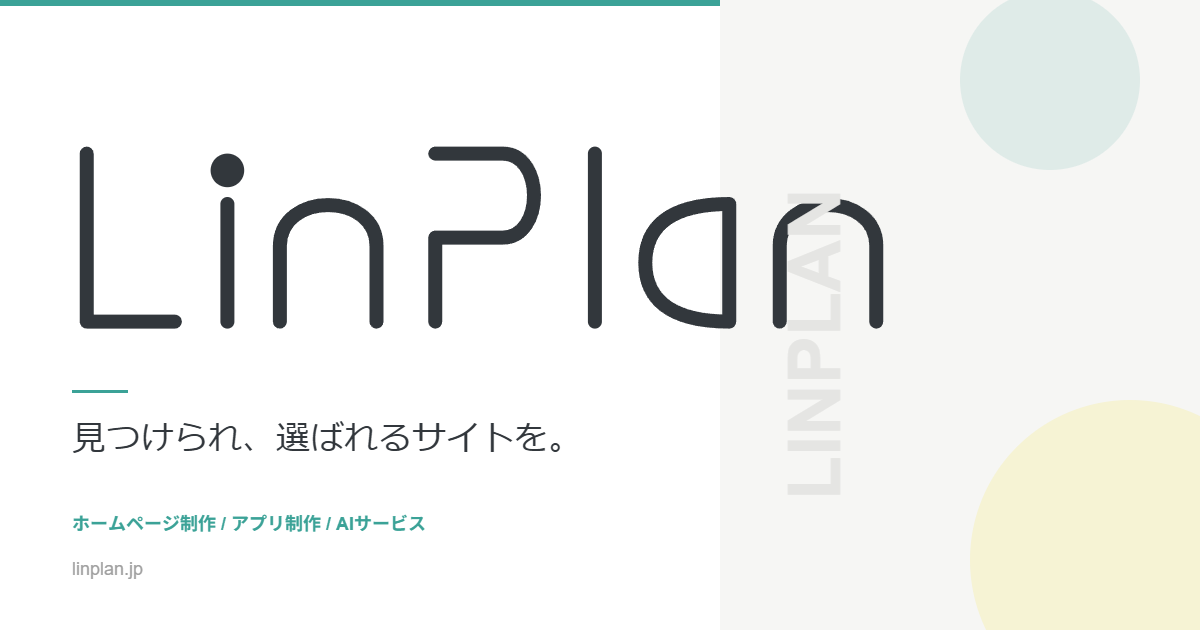
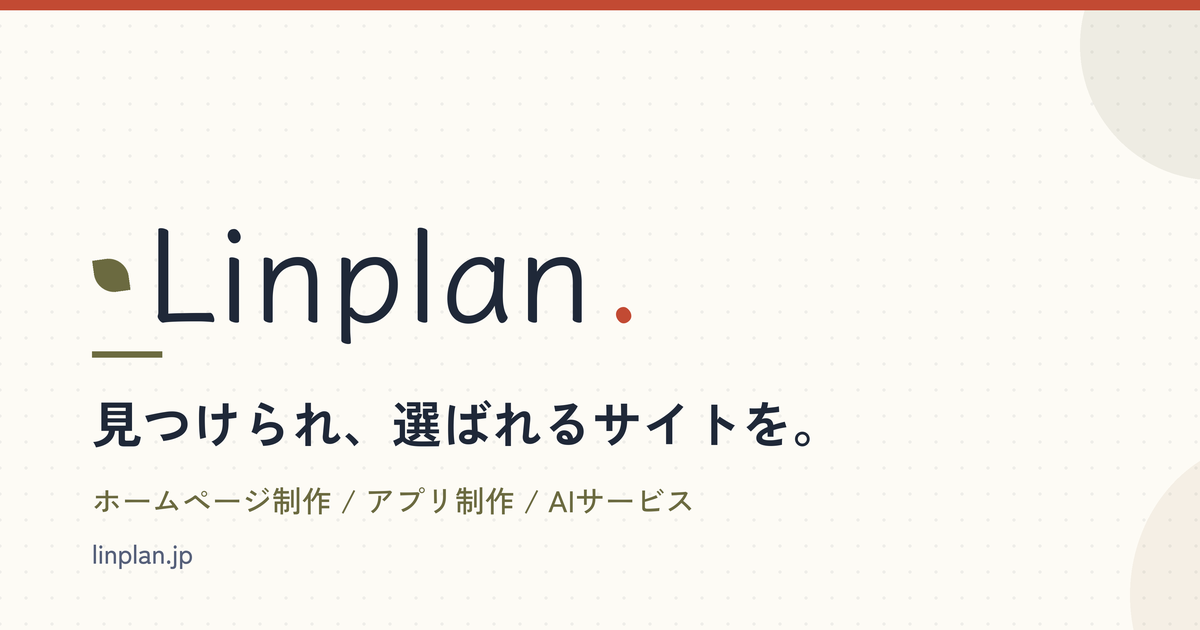
地域SEO第2弾: カニバリ解消・船橋文脈注入・NAP統一・画像最適化
- index.htmlをトップLPに一本化、h2/OGPに船橋文脈を注入し対応エリア導線を追加
- area/funabashi.htmlを対面サポート・対応エリア案内に役割変更してキーワード競合を解消
- about.htmlのNAP表記を「千葉県船橋市」に統一
- tokushoho.htmlの電話番号を開示請求方式に変更（非公開方針に整合）
- OGP画像を現行ブランド（Linplan表記・テラコッタ配色）で作り直し
- 作品見本画像3点を再圧縮（計約157KB削減）

diff --git a/area/funabashi.html b/area/funabashi.html
@@ -10,20 +10,20 @@ j=d.createElement(s),dl=l!='dataLayer'?'&l='+l:'';j.async=true;j.src=
 'https://www.googletagmanager.com/gtm.js?id='+i+dl;f.parentNode.insertBefore(j,f);
 })(window,document,'script','dataLayer','GTM-5DVGF39S');</script>
 <!-- End Google Tag Manager -->
-<title>船橋市のホームページ制作｜月額9,900円〜・直接お伺いします【Linplan】</title>
+<title>船橋市内の対面サポート・対応エリア｜直接お伺いします【Linplan】</title>
 <link rel="canonical" href="https://linplan.jp/area/funabashi.html">
 <meta property="og:type" content="website">
 <meta property="og:site_name" content="Linplan">
 <meta property="og:locale" content="ja_JP">
-<meta property="og:title" content="船橋市のホームページ制作｜月額9,900円〜・直接お伺いします【Linplan】">
-<meta property="og:description" content="千葉県船橋市でホームページ制作なら地元のLinplan。月額9,900円〜、初期費用0円。船橋市内なら直接お店にお伺いして、対面でご相談・サポートします。">
+<meta property="og:title" content="船橋市内の対面サポート・対応エリア｜直接お伺いします【Linplan】">
+<meta property="og:description" content="Linplanの対面サポート対応エリアのご案内。船橋市内・習志野市・市川市・鎌ケ谷市・八千代市は直接お店にお伺いして、打ち合わせから公開後のサポートまで対面で対応します。">
 <meta property="og:url" content="https://linplan.jp/area/funabashi.html">
 <meta property="og:image" content="https://linplan.jp/images/ogp.png">
 <meta name="twitter:card" content="summary_large_image">
-<meta name="twitter:title" content="船橋市のホームページ制作｜月額9,900円〜・直接お伺いします【Linplan】">
-<meta name="twitter:description" content="千葉県船橋市でホームページ制作なら地元のLinplan。月額9,900円〜、初期費用0円。船橋市内なら直接お店にお伺いして、対面でご相談・サポートします。">
+<meta name="twitter:title" content="船橋市内の対面サポート・対応エリア｜直接お伺いします【Linplan】">
+<meta name="twitter:description" content="Linplanの対面サポート対応エリアのご案内。船橋市内・習志野市・市川市・鎌ケ谷市・八千代市は直接お店にお伺いして、打ち合わせから公開後のサポートまで対面で対応します。">
 <meta name="twitter:image" content="https://linplan.jp/images/ogp.png">
-<meta name="description" content="千葉県船橋市でホームページ制作なら地元のLinplan。月額9,900円〜、初期費用0円。船橋市内なら直接お店にお伺いして、対面でご相談・サポートします。">
+<meta name="description" content="Linplanの対面サポート対応エリアのご案内。船橋市内・習志野市・市川市・鎌ケ谷市・八千代市は直接お店にお伺いして、打ち合わせから公開後のサポートまで対面で対応します。">
 <script type="application/ld+json">
 {
   "@context": "https://schema.org",
@@ -61,7 +61,7 @@ j=d.createElement(s),dl=l!='dataLayer'?'&l='+l:'';j.async=true;j.src=
       "@type": "BreadcrumbList",
       "itemListElement": [
         { "@type": "ListItem", "position": 1, "name": "ホーム", "item": "https://linplan.jp/" },
-        { "@type": "ListItem", "position": 2, "name": "船橋市のホームページ制作", "item": "https://linplan.jp/area/funabashi.html" }
+        { "@type": "ListItem", "position": 2, "name": "船橋市内の対面サポート・対応エリア", "item": "https://linplan.jp/area/funabashi.html" }
       ]
     }
   ]
@@ -148,8 +148,8 @@ height="0" width="0" style="display:none;visibility:hidden"></iframe></noscript>
   <svg class="blob float-a" width="200" height="200" viewBox="-90 -90 180 180" style="top:70px;left:8%;opacity:.7" aria-hidden="true"><path d="M44.6,-55.6C56.4,-46.3,63.5,-31.1,66.8,-15.2C70.1,0.7,69.6,17.3,62.4,30.6C55.2,43.9,41.3,53.9,26,59.8C10.7,65.7,-6,67.5,-21.9,63.3C-37.8,59.1,-52.9,48.9,-61.4,34.6C-69.9,20.3,-71.8,1.9,-67.5,-14.4C-63.2,-30.7,-52.7,-44.9,-39.3,-54C-25.9,-63.1,-13,-67.1,1.4,-68.8C15.7,-70.5,32.8,-64.9,44.6,-55.6Z" fill="#E6E3CF"/></svg>
   <div class="container">
     <span class="eyebrow">Funabashi</span>
-    <h1>船橋市の<br class="dt">ホームページ制作</h1>
-    <p>船橋を拠点に、お店・中小企業のホームページをひとりでお作りしています。<br>打ち合わせも、公開してからのサポートも、直接お伺いできます。</p>
+    <h1>船橋市内の<br class="dt">対面サポート・対応エリア</h1>
+    <p>打ち合わせも、公開してからのサポートも、直接お伺いできます。<br>制作内容や料金については<a href="../index.html">船橋のホームページ制作（トップページ）</a>をご覧ください。</p>
   </div>
 </header>
 

diff --git a/index.html b/index.html
@@ -15,13 +15,13 @@ j=d.createElement(s),dl=l!='dataLayer'?'&l='+l:'';j.async=true;j.src=
 <meta property="og:type" content="website">
 <meta property="og:site_name" content="Linplan">
 <meta property="og:locale" content="ja_JP">
-<meta property="og:title" content="Linplan ｜ Web・アプリ・AI、ひとりで一気通貫。">
-<meta property="og:description" content="中小企業・店舗のための、AIにも選ばれるサイトを。Linplanは企画から運用までひとりで一気通貫。AEO/GEO標準対応で、Web・アプリ・AI業務支援をワンストップでご提供します。">
+<meta property="og:title" content="船橋のホームページ制作｜月額9,900円〜・対面対応【Linplan】">
+<meta property="og:description" content="千葉県船橋市のホームページ制作。初期費用0円・月額9,900円〜。船橋市内・近隣は直接お伺いして対面でサポート。AEO/GEO(AI検索最適化)標準対応。">
 <meta property="og:url" content="https://linplan.jp/">
 <meta property="og:image" content="https://linplan.jp/images/ogp.png">
 <meta name="twitter:card" content="summary_large_image">
-<meta name="twitter:title" content="Linplan ｜ Web・アプリ・AI、ひとりで一気通貫。">
-<meta name="twitter:description" content="中小企業・店舗のための、AIにも選ばれるサイトを。Linplanは企画から運用までひとりで一気通貫。AEO/GEO標準対応で、Web・アプリ・AI業務支援をワンストップでご提供します。">
+<meta name="twitter:title" content="船橋のホームページ制作｜月額9,900円〜・対面対応【Linplan】">
+<meta name="twitter:description" content="千葉県船橋市のホームページ制作。初期費用0円・月額9,900円〜。船橋市内・近隣は直接お伺いして対面でサポート。AEO/GEO(AI検索最適化)標準対応。">
 <meta name="twitter:image" content="https://linplan.jp/images/ogp.png">
 <meta name="description" content="中小企業・店舗のための、AIにも選ばれるサイトを。Linplanは企画から運用までひとりで一気通貫。AEO/GEO標準対応で、Web・アプリ・AI業務支援をワンストップでご提供します。">
 <script type="application/ld+json">
@@ -379,7 +379,7 @@ height="0" width="0" style="display:none;visibility:hidden"></iframe></noscript>
   <div class="container">
     <div class="section__head reveal">
       <span class="eyebrow">Service Map</span>
-      <h2>ホームページを、事業の武器に。</h2>
+      <h2>船橋の中小企業・お店のホームページを、事業の武器に。</h2>
       <p class="section__desc" style="margin-top:10px">ホームページを作ったはいいものの、「あるだけ」になっていませんか？<br>私は制作を通じて、いっしょに事業の成長のお手伝いをしていきます。</p>
     </div>
 
@@ -722,7 +722,7 @@ height="0" width="0" style="display:none;visibility:hidden"></iframe></noscript>
   <div class="container">
     <div class="section__head reveal">
       <span class="eyebrow">Works</span>
-      <h2>これまでの成果物</h2>
+      <h2>船橋のホームページ制作 実績・見本サイト</h2>
       <p class="section__desc">自社プロダクトと制作実績をご紹介します。</p>
     </div>
 
@@ -843,6 +843,18 @@ height="0" width="0" style="display:none;visibility:hidden"></iframe></noscript>
       </a>
     </div>
     <div style="text-align:center;margin-top:40px" class="reveal"><a href="blog/" class="btn btn--ghost hand">相談室の記事をすべて見る<svg width="14" height="14" viewBox="0 0 24 24" fill="none" stroke="currentColor" stroke-width="2.4" stroke-linecap="round" stroke-linejoin="round"><path d="M5 12h14"/><path d="M12 5l7 7-7 7"/></svg></a></div>
+  </div>
+</section>
+
+<!-- ===== AREA ===== -->
+<section class="section section--white">
+  <div class="container">
+    <div class="section__head reveal">
+      <span class="eyebrow">Area</span>
+      <h2>船橋市内・近隣エリアは直接お伺いします</h2>
+    </div>
+    <p class="section__desc reveal">船橋駅・西船橋・津田沼・下総中山エリアをはじめ、船橋市内ならどこでも直接お伺いします。習志野市・市川市・鎌ケ谷市・八千代市など近隣の方もお気軽に。「ホームページを作りたいけれど、何から始めればいいか分からない」という段階からのご相談が、実はいちばん多いです。</p>
+    <p class="section__desc reveal">対面での打ち合わせ・サポートの詳細は<a href="area/funabashi.html">船橋市内の対面サポート・対応エリア</a>をご覧ください。</p>
   </div>
 </section>
 

diff --git a/tokushoho.html b/tokushoho.html
@@ -94,7 +94,7 @@ height="0" width="0" style="display:none;visibility:hidden"></iframe></noscript>
           <tr><th style="text-align:left;padding:14px;border-bottom:1px solid var(--line);width:32%;vertical-align:top;background:var(--paper)">販売事業者</th><td style="padding:14px;border-bottom:1px solid var(--line)">Linplan（リンプラン）</td></tr>
           <tr><th style="text-align:left;padding:14px;border-bottom:1px solid var(--line);vertical-align:top;background:var(--paper)">運営責任者</th><td style="padding:14px;border-bottom:1px solid var(--line)">坪山　ちひろ</td></tr>
           <tr><th style="text-align:left;padding:14px;border-bottom:1px solid var(--line);vertical-align:top;background:var(--paper)">所在地</th><td style="padding:14px;border-bottom:1px solid var(--line)">千葉県船橋市<br><span style="color:var(--ink-soft);font-size:.86rem">※詳細な住所は、ご請求をいただいた場合に遅滞なく開示いたします。お問い合わせフォームよりご連絡ください。</span></td></tr>
-          <tr><th style="text-align:left;padding:14px;border-bottom:1px solid var(--line);vertical-align:top;background:var(--paper)">電話番号</th><td style="padding:14px;border-bottom:1px solid var(--line)">[削除済み]<br><span style="color:var(--ink-soft);font-size:.86rem">※受付時間外は折り返しのご連絡となる場合があります。お問い合わせは原則メール・フォームにて承ります。</span></td></tr>
+          <tr><th style="text-align:left;padding:14px;border-bottom:1px solid var(--line);vertical-align:top;background:var(--paper)">電話番号</th><td style="padding:14px;border-bottom:1px solid var(--line)">※電話番号は、ご請求をいただいた場合に遅滞なく開示いたします。お問い合わせは原則メール・フォームにて承ります。</td></tr>
           <tr><th style="text-align:left;padding:14px;border-bottom:1px solid var(--line);vertical-align:top;background:var(--paper)">メールアドレス</th><td style="padding:14px;border-bottom:1px solid var(--line)">tsubochihiroyama2230@gmail.com</td></tr>
           <tr><th style="text-align:left;padding:14px;border-bottom:1px solid var(--line);vertical-align:top;background:var(--paper)">販売価格</th><td style="padding:14px;border-bottom:1px solid var(--line)">各サービスのご案内ページに表示する価格によります。<br>月額プラン：ライト 月額9,900円（税別）／スタンダード 月額16,500円（税別）ほか<br>制作プラン：35万円（税別）〜<br><span style="color:var(--ink-soft);font-size:.86rem">個別のお見積りによる場合は、見積書に記載の金額によります。</span></td></tr>
           <tr><th style="text-align:left;padding:14px;border-bottom:1px solid var(--line);vertical-align:top;background:var(--paper)">商品代金以外の必要料金</th><td style="padding:14px;border-bottom:1px solid var(--line)">月額プランの初期費用（ライト 5,500円／スタンダード 11,000円、いずれも税別）。消費税。お客様のもとで発生する通信料。サービス内容により別途お見積りとなるオプション費用。</td></tr>

diff --git a/about.html b/about.html
@@ -189,7 +189,7 @@ height="0" width="0" style="display:none;visibility:hidden"></iframe></noscript>
     <div class="career reveal">
       <div class="career-step"><small>STEP 01</small><b>ホームページ制作会社</b><p>Web 制作の実務で腕を磨く。</p></div>
       <div class="career-step"><small>STEP 02</small><b>システムエンジニア</b><p>開発の現場で、IT の土台を築く。</p></div>
-      <div class="career-step"><small>STEP 03</small><b>独立・Linplan 開業</b><p>船橋を拠点に、企画から運用までひとりで一気通貫。</p></div>
+      <div class="career-step"><small>STEP 03</small><b>独立・Linplan 開業</b><p>千葉県船橋市を拠点に、企画から運用までひとりで一気通貫。</p></div>
     </div>
   </div>
 </section>
